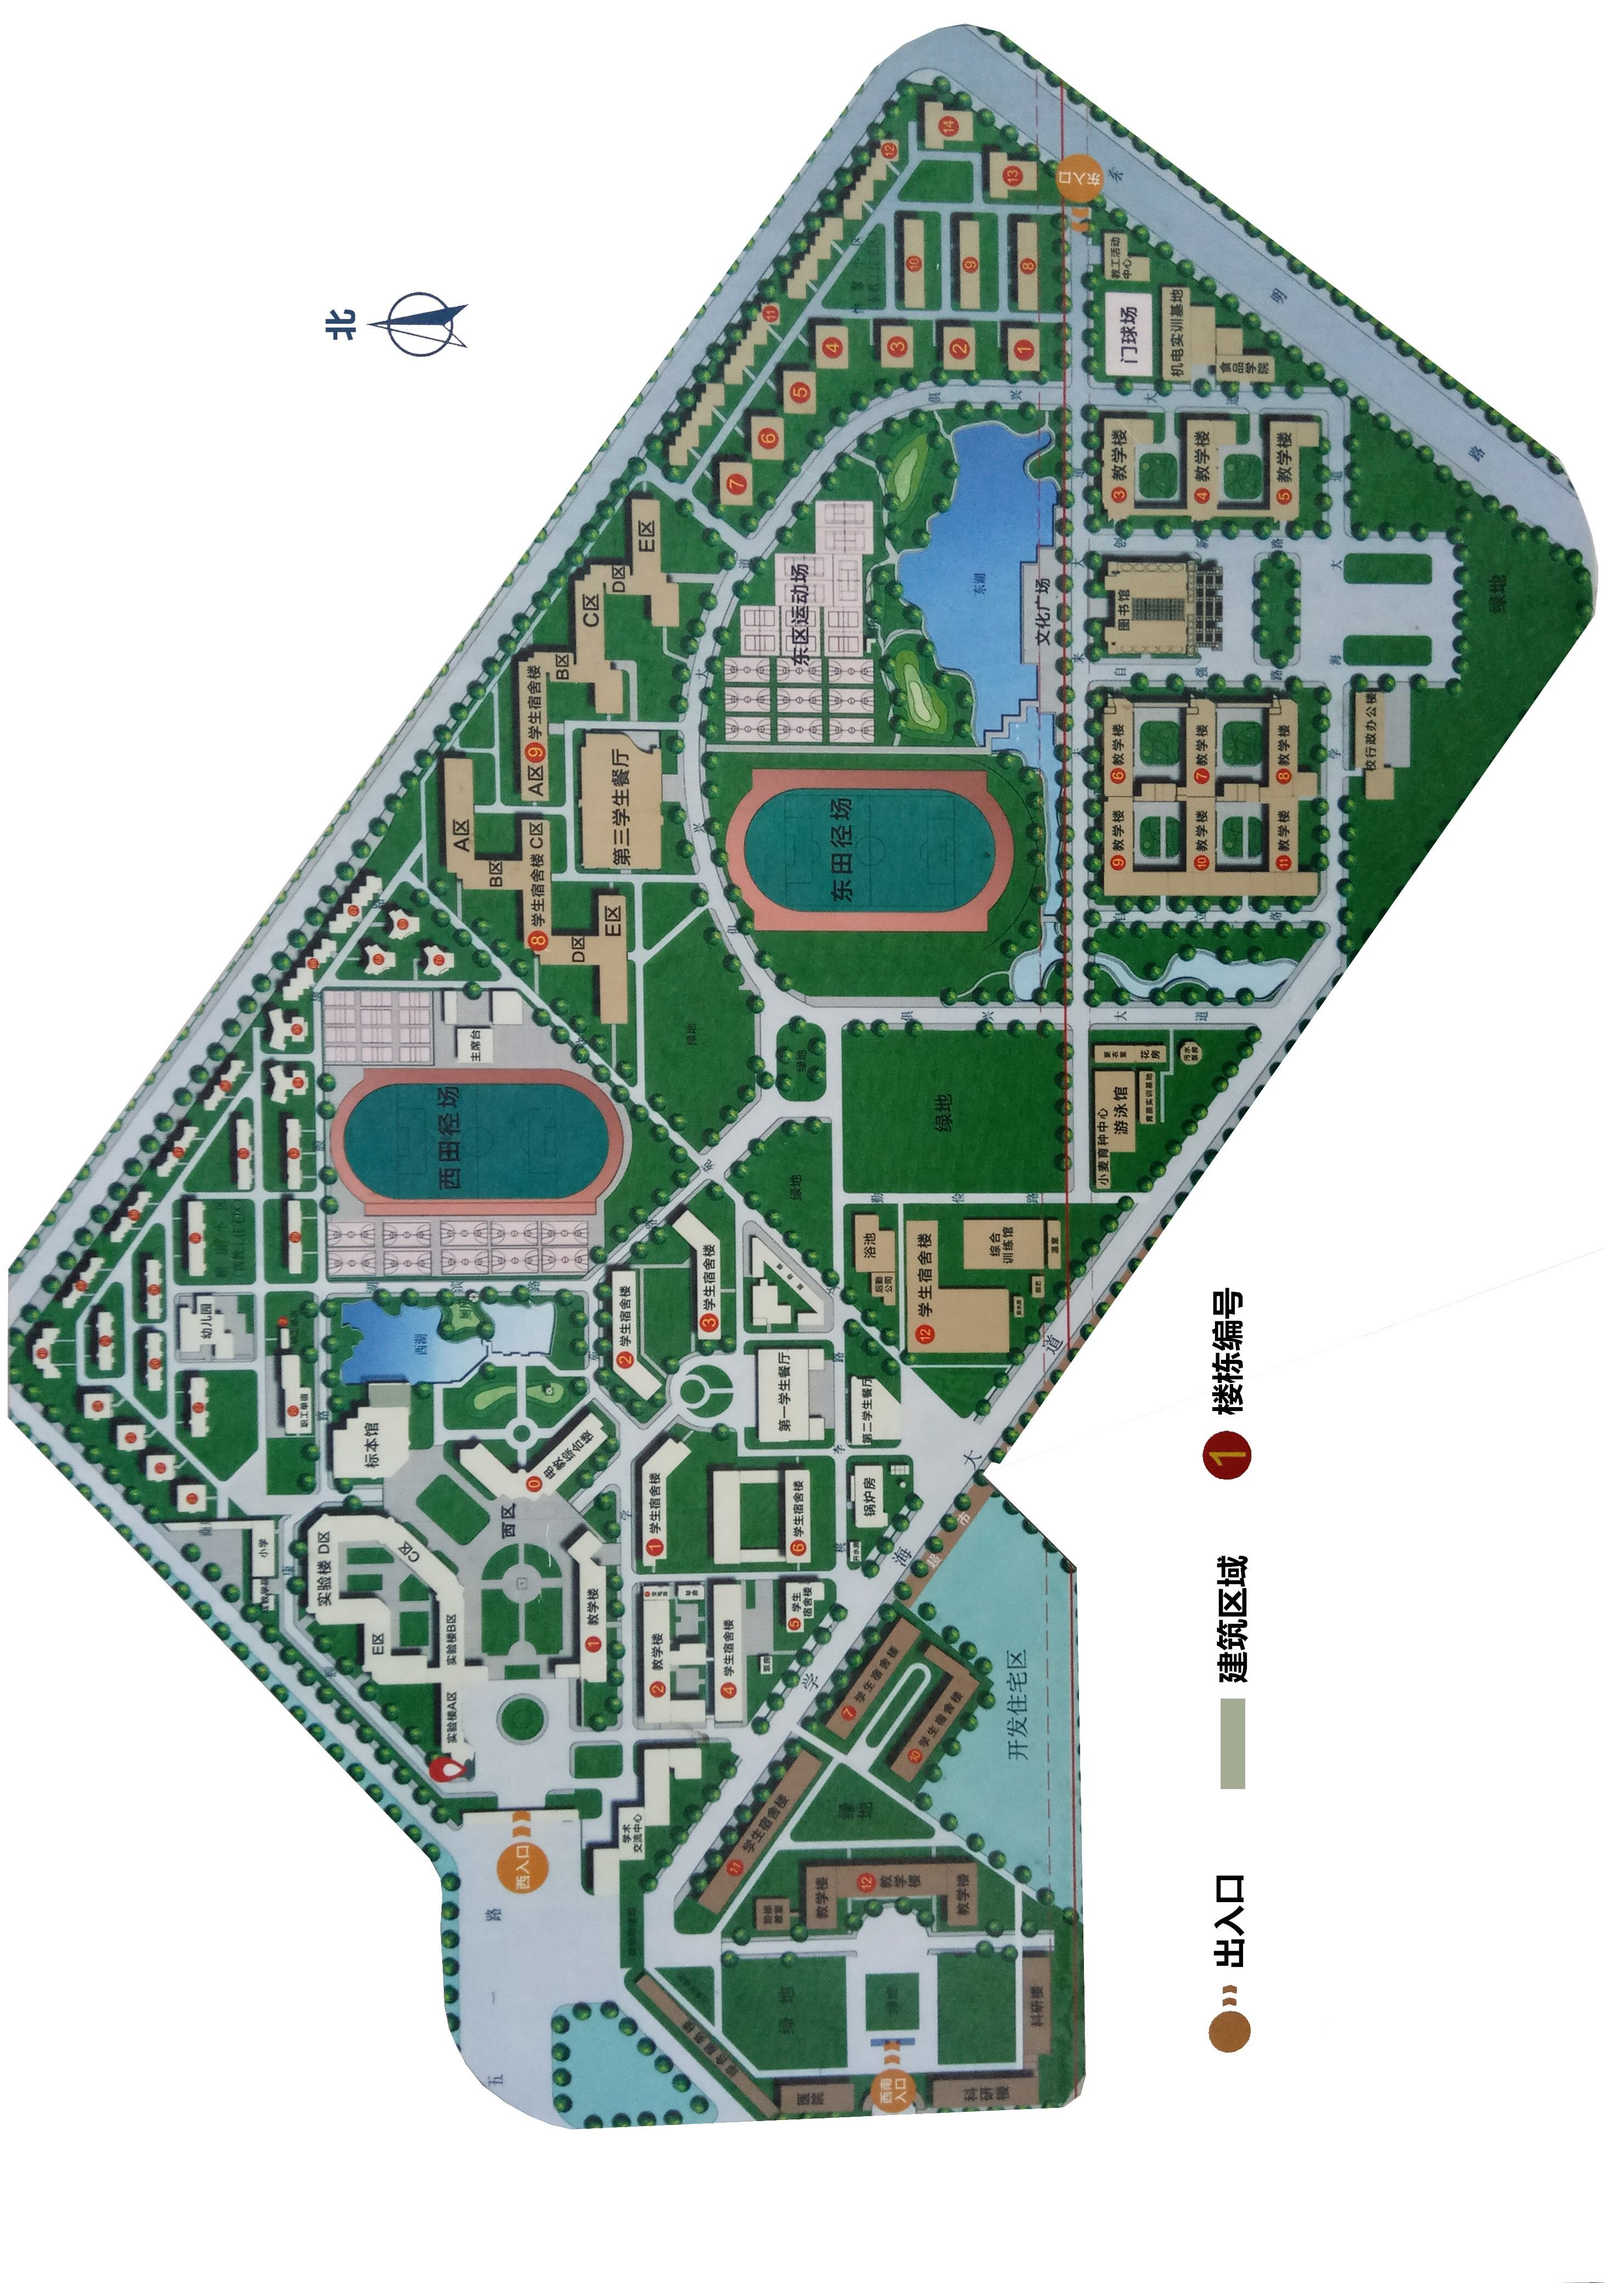
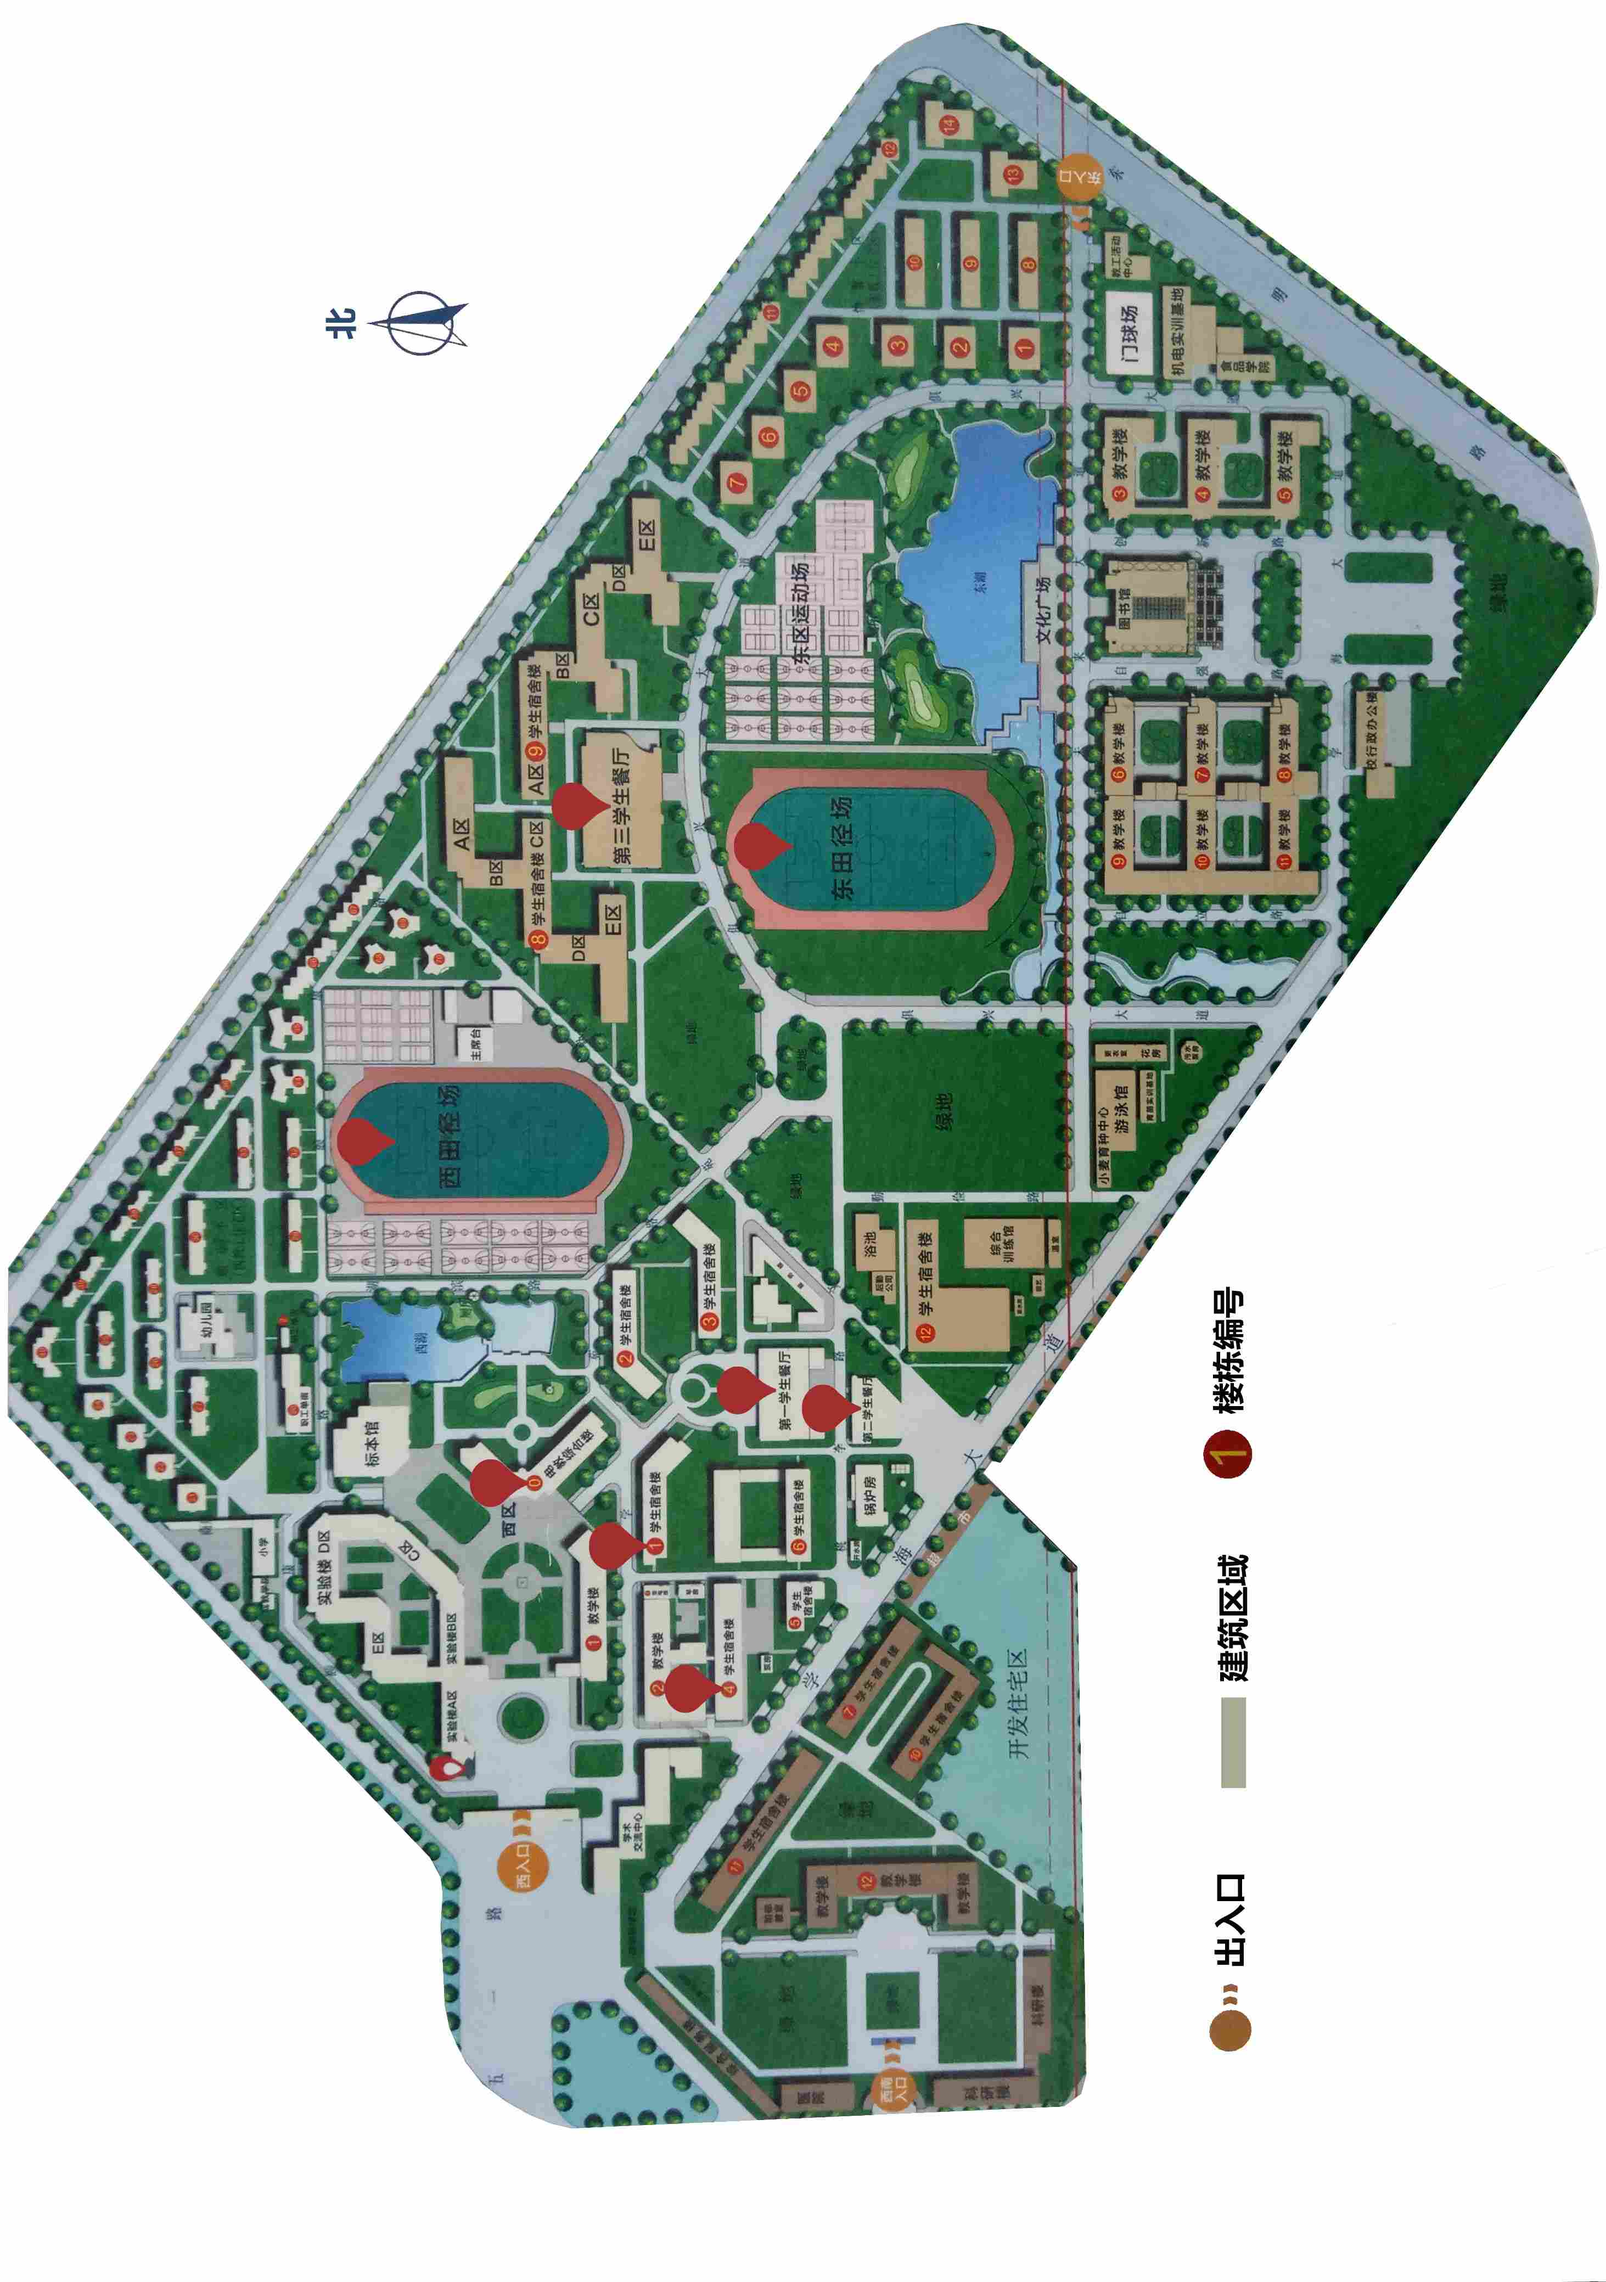
over

diff --git a/resources/assets/js/components/Map.vue b/resources/assets/js/components/Map.vue
@@ -1,27 +1,28 @@
 <template>
 	<div>
-		  <div>
+		  <!-- <div>
         <img src="img/banner2.jpg" alt="" width="100%">
-      </div>
+      </div> -->
 
-	    	<img class="map-img" v-for="(item, index) in list" :src="item.src" width="100" @click="showImg(index)">
+	    	
+
+	    	<div style="padding:0 8px;">
+					<img class="map-img" v-for="(item, index) in list" :src="item.src" width="100" @click="showImg(index)">
 	    	<div v-transfer-dom>
 	      		<previewer :list="list" ref="previewer" :options="options"></previewer>
 	    	</div>
-
-	    	<div style="padding:0 8px;">
 			   <group>
-			          <p class="support">技术支持：<a>三月软件小组</a></p>
-			          <grid :rows="2" >
-			            <grid-item label="三月软件公众号" class="item">
-			              <img slot="icon" src="img/wx.png">
-			            </grid-item>
-			            <grid-item label="三月软件招新QQ群" class="item">
-			              <img slot="icon" src="img/qq_qrcode.jpg">
-			            </grid-item>
-			          </grid>
-			          <p class="join">三月软件期待你的加入</a></p>
-		        </group>
+          <p class="support">技术支持：<a>三月软件小组</a></p>
+          <grid :rows="2" >
+            <grid-item label="三月软件公众号" class="item">
+              <img slot="icon" src="img/wx.png">
+            </grid-item>
+            <grid-item label="三月软件招新QQ群" class="item">
+              <img slot="icon" src="img/qq_qrcode.jpg">
+            </grid-item>
+          </grid>
+          <p class="join">三月软件期待你的加入</a></p>
+        </group>
 	        </div>
 	  </div>
 
@@ -42,7 +43,7 @@
 		data(){
 			return {
 				list:[{
-				        src: 'https://ooo.0o0.ooo/2017/05/17/591c271ab71b1.jpg',
+				        src: 'img/map.jpg',
 				 }],
 				 options: {
 				        getThumbBoundsFn (index) {
@@ -68,6 +69,45 @@
 	padding-top: 5px;
 }
  .title{
+    text-align:center;
+    font-weight: 700;
+    text-shadow: 10px 10px 10px rgb(200, 200, 200);
+    font-size:26px;
+  }
+  .btn{
+    margin:1.5rem 0;
+    font-size:16px;
+    padding:4px;
+  }
+  .support{
+    text-align: center;
+    font-size: 12px;
+    /* padding: 20px 10px 0 0; */
+  }
+  .join{
+    text-align:center;
+    font-weight: 700;
+    text-shadow: 10px 10px 10px rgb(200, 200, 200);
+    font-size:16px;
+  }
+</style>
+<style>
+  body{
+    padding: 0;
+    margin: 0;
+  }
+  .item .weui-grid__icon{
+    width: 60%;
+    height: auto;
+    margin: 0 auto;
+  }
+  a:-webkit-any-link {
+        text-decoration: none;
+  }
+
+</style>
+<style scoped>
+  .title{
     text-align:center;
     font-weight: 700;
     text-shadow: 10px 10px 10px rgb(200, 200, 200);

diff --git a/resources/assets/js/components/Info.vue b/resources/assets/js/components/Info.vue
@@ -6,7 +6,8 @@
 							<x-button type="primary" class="btn" @click.native="edit" mini>编辑信息</x-button>
 					</grid-item>
 					<grid-item  class="item">
-							<x-button type="primary" class="btn" @click.native="this.$router.push({ path: '/map' })" mini >查看地图</x-button>
+							<x-button type="primary" class="btn" @click.native="show_map=!show_map" mini >查看地图</x-button>
+							<!-- <x-button type="primary" class="btn" @click.native="map" mini >查看地图</x-button> -->
 					</grid-item>
 			</grid>
 
@@ -27,24 +28,24 @@
 					<x-input title='QQ号' :value="info['qq_id']" disabled></x-input>
 			</group>
 
-			<group>
+			<!-- <group>
 			     	<x-switch title="$t('Show Me')" v-model="show"></x-switch>
-			 </group>
-		    	<div v-transfer-dom>
+			 </group> -->
+		    	<!-- <div v-transfer-dom>
 		      		<alert v-model="show" :title="msg" @on-hide="onHide"> 将跳转到主页</alert>
-		    	</div>
+		    	</div> -->
 
-			<!-- <div v-transfer-dom style="width:100%;height:100%;" class="map">
+			<div v-transfer-dom style="width:100%;height:100%;" class="map">
 					<x-dialog v-model="show_map" class="dialog-demo" hide-on-blur>
 							<div class="img-box">
-							<img src="img/banner.jpg" style="max-width:100%;height:100%;transform: rotate(90deg);">
+							<img src="img/map.jpg" style="max-width:100%;height:100%;">
 							</div>
 							<div @click="show_map=false">
 							<span class="vux-close"></span>
 							</div>
 					</x-dialog>
 			</div>
- -->
+
 	</div>
 </template>
 
@@ -76,6 +77,9 @@
 						}
 				},
 				methods:{
+						map(){
+							this.$router.push({ path: '/Map' })
+						},
 						edit(){
 								this.$router.push({ path: '/info/set/'+this.$route.params.id });
 						},
